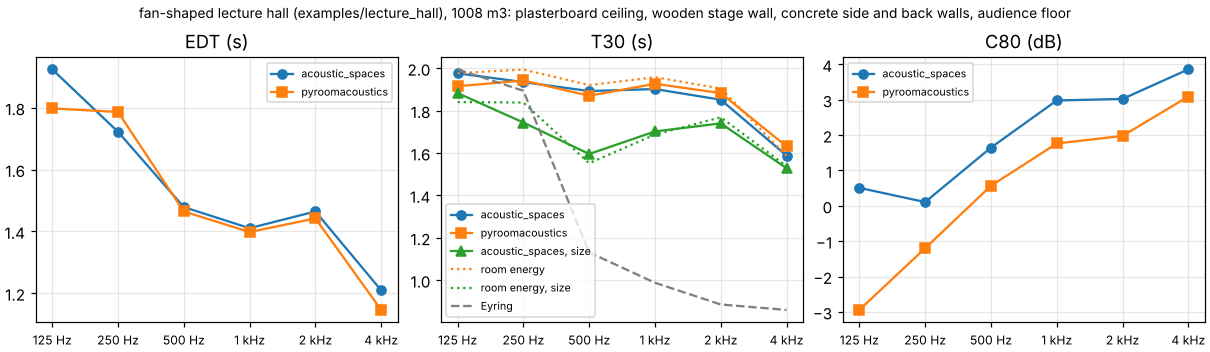
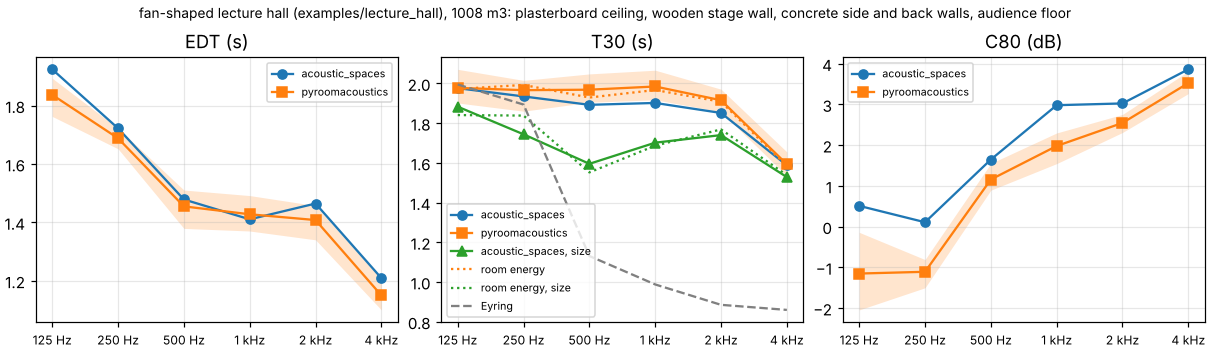
Validation: average five pyroomacoustics runs, alcove timing
pyroomacoustics draws its rays afresh on every run, and its numbers moved
by up to 11 % in T30 and 2.9 dB in C80 between runs, more than the
differences the report drew conclusions from. The cross-check now runs it
five times per room (--pra-runs), averages them and shows the spread in
the tables and figures. The lecture hall's C80 difference, 0.8 to 3.5 dB
in one run, is 0.3 to 1.7 dB on average. This package's own numbers are
unchanged.

The alcove hall's early stage takes 90, 120 and 170 ms without,
with first-order and with second-order diffraction (86 paths).

Assisted-by: Claude Code

diff --git a/validation/pyroomacoustics_crosscheck.py b/validation/pyroomacoustics_crosscheck.py
@@ -2,6 +2,7 @@
 
     python validation/pyroomacoustics_crosscheck.py [--rays 100000] [--json results.json]
                                                     [--plots DIR] [--cases specular,diffuse]
+                                                    [--pra-runs 5]
 
 Needs ``pip install pyroomacoustics`` (and matplotlib for ``--plots``). Both programs
 get the same geometry, absorption and scattering per octave band, the same air
@@ -10,7 +11,10 @@ tracing takes over. Both scatter vector-based; pyroomacoustics has no scattering
 size of a surface, so this package leaves it out for the comparison and adds a run with
 its default, which has it. The impulse responses of both are analysed alike, with
 :func:`acoustic_spaces.parameters.from_impulse_response`, and EDT, T30 and C80 are
-averaged over the listeners of each room. The script prints a Markdown table per room.
+averaged over the listeners of each room. pyroomacoustics draws its rays afresh on every
+run, so it simulates each room several times (``--pra-runs``) and its parameters are
+averaged over the runs too, with the spread between them in the tables. The script
+prints a Markdown table per room.
 """
 
 from __future__ import annotations
@@ -383,13 +387,21 @@ def barron_c80(case: Case, volume: float, t: np.ndarray) -> np.ndarray:
     return np.mean(10.0 * np.log10(early / late), axis=0)
 
 
-def compare(case: Case, rays: int, seed: int) -> dict:
+def compare(case: Case, rays: int, seed: int, pra_runs: int = 5) -> dict:
     # pyroomacoustics has no scattering from the size of a surface: the comparison
     # leaves it out here too, and this package's default adds it.
     ours, room, ours_s = run_ours(case, rays, seed, from_size=False)
     default, default_room, _ = run_ours(case, rays, seed)
-    theirs, theirs_s = run_pyroomacoustics(case, rays, room.air_attenuation())
-    a, b, d = _mean_parameters(ours), _mean_parameters(theirs), _mean_parameters(default)
+    theirs, theirs_s, runs = [], 0.0, []
+    for _ in range(pra_runs):
+        irs, seconds = run_pyroomacoustics(case, rays, room.air_attenuation())
+        theirs += irs
+        theirs_s += seconds / pra_runs
+        runs.append(_mean_parameters(irs))
+    a, d = _mean_parameters(ours), _mean_parameters(default)
+    b = {p: np.mean([r[p] for r in runs], axis=0) for p in PARAMETERS}
+    lowest = {p: np.min([r[p] for r in runs], axis=0) for p in PARAMETERS}
+    highest = {p: np.max([r[p] for r in runs], axis=0) for p in PARAMETERS}
     duration = 1.5 * case.ir_length_s
     global_t30 = {
         "vector": _global_t30(room, "vector", _t30_windows(theirs), duration),
@@ -406,9 +418,12 @@ def compare(case: Case, rays: int, seed: int) -> dict:
                 "acoustic_spaces": [float(v) for v in a[p][COMPARED]],
                 "pyroomacoustics": [float(v) for v in b[p][COMPARED]],
                 "default": [float(v) for v in d[p][COMPARED]],
+                "pyroomacoustics_lowest": [float(v) for v in lowest[p][COMPARED]],
+                "pyroomacoustics_highest": [float(v) for v in highest[p][COMPARED]],
             }
             for p in PARAMETERS
         },
+        "pyroomacoustics_runs": pra_runs,
         "t30_room_energy": {m: [float(v) for v in t[COMPARED]] for m, t in global_t30.items()},
     }
     if case.diffuse:
@@ -437,6 +452,13 @@ def table(result: dict) -> str:
         label = f"{p.upper()} ({units[p]})"
         lines.append(f"| {label}, acoustic_spaces | " + " | ".join(map(fmt.format, ours)) + " |")
         lines.append(f"| {label}, pyroomacoustics | " + " | ".join(map(fmt.format, theirs)) + " |")
+        if "pyroomacoustics_lowest" in result[p]:
+            values = np.subtract(
+                result[p]["pyroomacoustics_highest"], result[p]["pyroomacoustics_lowest"]
+            )
+            spread = " | ".join(map(fmt.format, values))
+            runs = result["pyroomacoustics_runs"]
+            lines.append(f"| {label}, pyroomacoustics' spread over {runs} runs | {spread} |")
         if p == "c80":
             diff = [f"{round(d, 1) + 0.0:+.1f} dB" for d in theirs - ours]
         else:
@@ -472,6 +494,9 @@ def plot(result: dict, path: str) -> None:
     for ax, p in zip(axes, PARAMETERS, strict=True):
         ax.plot(x, result[p]["acoustic_spaces"], "o-", color="C0", label="acoustic_spaces")
         ax.plot(x, result[p]["pyroomacoustics"], "s-", color="C1", label="pyroomacoustics")
+        if "pyroomacoustics_lowest" in result[p]:
+            low, high = result[p]["pyroomacoustics_lowest"], result[p]["pyroomacoustics_highest"]
+            ax.fill_between(x, low, high, color="C1", alpha=0.2, linewidth=0)
         if p == "t30":
             energy = result["t30_room_energy"]
             ax.plot(x, result[p]["default"], "^-", color="C2", label="acoustic_spaces, size")
@@ -497,6 +522,9 @@ def main() -> None:
     parser.add_argument("--json", help="write every number to this file")
     parser.add_argument("--plots", help="draw a PNG per room into this folder")
     parser.add_argument("--tables", help="only print the tables of a file from --json")
+    parser.add_argument(
+        "--pra-runs", type=int, default=5, help="runs of pyroomacoustics to average per room"
+    )
     args = parser.parse_args()
 
     if args.tables:
@@ -512,7 +540,7 @@ def main() -> None:
         chosen = set(args.cases.split(","))
         for case in CASES:
             if case.name in chosen:
-                results.append(compare(case, args.rays, args.seed))
+                results.append(compare(case, args.rays, args.seed, args.pra_runs))
                 print(table(results[-1]) + "\n", flush=True)
     else:
         for result in results:

diff --git a/docs/validation.md b/docs/validation.md
@@ -177,6 +177,8 @@ rooms:
 Both programs got the same absorption and scattering per octave band, the same air
 absorption (ISO 9613-1 at 20 °C and 50 %, from this package), image sources up to the
 3rd order and 100,000 rays, with one omnidirectional source and four listeners per room.
+pyroomacoustics draws its rays afresh on every run, so each room ran five times in it:
+the tables give the mean of the five and the spread between the highest and the lowest.
 Both scatter vector-based. pyroomacoustics has no scattering from the size of a surface,
 so this package left it out for the comparison (`from_size: false`) and ran each room
 once more with its default, which adds it. Both sets of impulse responses were analysed
@@ -204,12 +206,13 @@ listeners' T30 ("room energy" rows below).
 
 ### Results
 
-The figures show EDT, T30 and C80 per band for both programs, this package's default with
+The figures show EDT, T30 and C80 per band for both programs, the spread of
+pyroomacoustics' runs shaded, this package's default with
 the scattering of the surfaces' size, the decay of the room's total energy under each
 model and, where a diffuse field makes them apply, Eyring's reverberation time and
 Barron's revised theory.
 
-**Specular box.** The programs agree: T30 within 3 %, EDT within 10 % and C80 within
+**Specular box.** The programs agree: T30 within 3 %, EDT within 5 % and C80 within
 1 dB from 250 Hz up. Rays that travel parallel to the floor never meet the absorbing
 ceiling, so the decay is many times longer than Eyring's estimate in both. Even a
 smooth wall is only 3 m high, though, and scatters what reaches it from far away or at a
@@ -218,24 +221,27 @@ grazing angle: with that, T30 comes out 2.7 to 4.7 s instead of 3 to 15 s.
 | | 125 Hz | 250 Hz | 500 Hz | 1 kHz | 2 kHz | 4 kHz |
 |---|---:|---:|---:|---:|---:|---:|
 | EDT (s), acoustic_spaces | 7.29 | 6.30 | 3.55 | 3.01 | 2.33 | 1.33 |
-| EDT (s), pyroomacoustics | 6.96 | 5.93 | 3.68 | 2.72 | 2.23 | 1.30 |
-| EDT difference | -5 % | -6 % | +4 % | -10 % | -4 % | -2 % |
+| EDT (s), pyroomacoustics | 6.89 | 6.02 | 3.52 | 2.90 | 2.23 | 1.26 |
+| EDT (s), pyroomacoustics' spread over 5 runs | 0.39 | 0.76 | 0.35 | 0.17 | 0.06 | 0.08 |
+| EDT difference | -5 % | -5 % | -1 % | -4 % | -5 % | -5 % |
 | T30 (s), acoustic_spaces | 15.08 | 14.00 | 8.32 | 6.32 | 4.98 | 3.05 |
-| T30 (s), pyroomacoustics | 14.99 | 13.64 | 8.38 | 6.22 | 5.01 | 3.14 |
-| T30 difference | -1 % | -3 % | +1 % | -2 % | +1 % | +3 % |
+| T30 (s), pyroomacoustics | 15.45 | 13.78 | 8.28 | 6.25 | 5.03 | 3.15 |
+| T30 (s), pyroomacoustics' spread over 5 runs | 0.29 | 0.28 | 0.14 | 0.15 | 0.04 | 0.04 |
+| T30 difference | +2 % | -2 % | +0 % | -1 % | +1 % | +3 % |
 | C80 (dB), acoustic_spaces | -2.7 | -1.4 | 0.1 | 1.7 | 3.1 | 5.0 |
-| C80 (dB), pyroomacoustics | -0.9 | -0.8 | 0.3 | 2.6 | 3.2 | 5.2 |
-| C80 difference | +1.8 dB | +0.6 dB | +0.3 dB | +0.8 dB | +0.1 dB | +0.2 dB |
+| C80 (dB), pyroomacoustics | -1.4 | -1.0 | 0.8 | 2.2 | 3.1 | 5.3 |
+| C80 (dB), pyroomacoustics' spread over 5 runs | 2.9 | 0.8 | 1.1 | 0.7 | 0.3 | 0.4 |
+| C80 difference | +1.2 dB | +0.4 dB | +0.7 dB | +0.5 dB | +0.0 dB | +0.2 dB |
 | T30 (s), acoustic_spaces with surface size (default) | 3.82 | 4.36 | 4.58 | 4.67 | 4.10 | 2.69 |
-| T30 (s) of the room's energy, vector-based scattering | 15.45 | 13.96 | 7.32 | 6.25 | 4.97 | 2.87 |
+| T30 (s) of the room's energy, vector-based scattering | 15.60 | 13.99 | 7.29 | 6.28 | 4.98 | 2.87 |
 | T30 (s) of the room's energy, with surface size | 4.14 | 5.28 | 4.76 | 5.15 | 4.29 | 2.64 |
 | Eyring (s) | 0.83 | 0.69 | 0.52 | 0.37 | 0.30 | 0.25 |
 
 ![Specular box](validation/crosscheck_specular.png)
 
 **Diffuse box.** T30 agrees within 5 %; both programs stay within 8 % of the room's
-energy decay and within 12 % of Eyring's estimate. From 1 kHz up, pyroomacoustics gives
-16 to 27 % longer EDT and 1.2 to 2.8 dB lower C80 than this package, as its
+energy decay and within 13 % of Eyring's estimate. From 1 kHz up, pyroomacoustics gives
+14 to 25 % longer EDT and 1.5 to 2.3 dB lower C80 than this package, as its
 double-counted scattered energy predicts. Barron's revised theory sides with this
 package: computed from the simulated energies, as `simulate` prints them, C80 is within
 0.7 dB of the theory in every band. From the impulse responses it is up to 1.9 dB lower
@@ -246,15 +252,18 @@ scatter no more for their size, so the default gives the same.
 | | 125 Hz | 250 Hz | 500 Hz | 1 kHz | 2 kHz | 4 kHz |
 |---|---:|---:|---:|---:|---:|---:|
 | EDT (s), acoustic_spaces | 0.91 | 0.70 | 0.60 | 0.38 | 0.31 | 0.26 |
-| EDT (s), pyroomacoustics | 0.90 | 0.63 | 0.58 | 0.44 | 0.36 | 0.33 |
-| EDT difference | -2 % | -10 % | -4 % | +18 % | +16 % | +27 % |
+| EDT (s), pyroomacoustics | 0.85 | 0.71 | 0.58 | 0.43 | 0.35 | 0.32 |
+| EDT (s), pyroomacoustics' spread over 5 runs | 0.17 | 0.05 | 0.04 | 0.02 | 0.03 | 0.02 |
+| EDT difference | -7 % | +2 % | -4 % | +14 % | +15 % | +25 % |
 | T30 (s), acoustic_spaces | 0.75 | 0.67 | 0.53 | 0.40 | 0.30 | 0.26 |
-| T30 (s), pyroomacoustics | 0.73 | 0.64 | 0.54 | 0.40 | 0.31 | 0.27 |
-| T30 difference | -2 % | -5 % | +2 % | +1 % | +4 % | +4 % |
+| T30 (s), pyroomacoustics | 0.72 | 0.64 | 0.54 | 0.40 | 0.31 | 0.26 |
+| T30 (s), pyroomacoustics' spread over 5 runs | 0.08 | 0.03 | 0.04 | 0.02 | 0.02 | 0.01 |
+| T30 difference | -3 % | -5 % | +1 % | +1 % | +2 % | +0 % |
 | C80 (dB), acoustic_spaces | 4.9 | 5.6 | 7.2 | 12.8 | 15.6 | 19.0 |
-| C80 (dB), pyroomacoustics | 3.9 | 5.7 | 7.3 | 10.3 | 14.3 | 16.3 |
-| C80 difference | -0.9 dB | +0.0 dB | +0.1 dB | -2.5 dB | -1.2 dB | -2.8 dB |
-| C80 (dB), Barron's revised theory | 5.3 | 6.8 | 9.1 | 13.7 | 17.1 | 19.8 |
+| C80 (dB), pyroomacoustics | 3.6 | 5.2 | 7.3 | 10.8 | 14.1 | 16.7 |
+| C80 (dB), pyroomacoustics' spread over 5 runs | 1.9 | 1.0 | 1.0 | 0.5 | 0.9 | 0.2 |
+| C80 difference | -1.3 dB | -0.4 dB | +0.1 dB | -2.1 dB | -1.5 dB | -2.3 dB |
+| C80 (dB), Barron's revised theory | 5.3 | 6.8 | 9.1 | 13.6 | 17.0 | 19.8 |
 | T30 (s), acoustic_spaces with surface size (default) | 0.75 | 0.67 | 0.53 | 0.40 | 0.30 | 0.26 |
 | T30 (s) of the room's energy, vector-based scattering | 0.78 | 0.66 | 0.52 | 0.37 | 0.30 | 0.26 |
 | T30 (s) of the room's energy, with surface size | 0.78 | 0.66 | 0.52 | 0.37 | 0.30 | 0.26 |
@@ -262,47 +271,53 @@ scatter no more for their size, so the default gives the same.
 
 ![Diffuse box](validation/crosscheck_diffuse.png)
 
-**Example box.** With smooth walls (scattering 0.05), T30 agrees within 4 %, EDT within
-13 % and C80 within 1.4 dB. Up to version 2 this package scattered a ray with the
+**Example box.** With smooth walls (scattering 0.05), T30 agrees within 2 %, EDT within
+7 % and C80 within 1.2 dB. Up to version 2 this package scattered a ray with the
 coefficient as probability, and pyroomacoustics' T30 came out 19 to 42 % shorter. The
 walls' size halves T30 at 125 and 250 Hz (0.86 s against 1.82 s) and shortens it by
-8 to 22 % from 500 Hz up; each run matches the room-energy decay of its model within 9 %.
+8 to 22 % from 500 Hz up; each run matches the room-energy decay of its model within 11 %.
 
 | | 125 Hz | 250 Hz | 500 Hz | 1 kHz | 2 kHz | 4 kHz |
 |---|---:|---:|---:|---:|---:|---:|
 | EDT (s), acoustic_spaces | 1.27 | 1.27 | 1.19 | 1.10 | 1.08 | 0.92 |
-| EDT (s), pyroomacoustics | 1.10 | 1.28 | 1.29 | 1.24 | 1.14 | 0.92 |
-| EDT difference | -13 % | +1 % | +8 % | +13 % | +6 % | +0 % |
+| EDT (s), pyroomacoustics | 1.23 | 1.37 | 1.16 | 1.15 | 1.13 | 0.92 |
+| EDT (s), pyroomacoustics' spread over 5 runs | 0.31 | 0.08 | 0.18 | 0.14 | 0.11 | 0.07 |
+| EDT difference | -3 % | +7 % | -2 % | +5 % | +4 % | +0 % |
 | T30 (s), acoustic_spaces | 1.82 | 1.76 | 1.57 | 1.52 | 1.44 | 1.23 |
-| T30 (s), pyroomacoustics | 1.77 | 1.68 | 1.53 | 1.51 | 1.44 | 1.27 |
-| T30 difference | -3 % | -4 % | -3 % | -1 % | +0 % | +3 % |
+| T30 (s), pyroomacoustics | 1.80 | 1.73 | 1.60 | 1.52 | 1.44 | 1.24 |
+| T30 (s), pyroomacoustics' spread over 5 runs | 0.18 | 0.15 | 0.11 | 0.07 | 0.07 | 0.08 |
+| T30 difference | -1 % | -2 % | +2 % | +0 % | +0 % | +1 % |
 | C80 (dB), acoustic_spaces | 2.8 | 2.7 | 3.3 | 5.1 | 5.1 | 6.3 |
-| C80 (dB), pyroomacoustics | 4.2 | 3.9 | 3.7 | 4.5 | 5.4 | 6.3 |
-| C80 difference | +1.4 dB | +1.2 dB | +0.4 dB | -0.5 dB | +0.3 dB | +0.0 dB |
+| C80 (dB), pyroomacoustics | 3.0 | 3.4 | 4.5 | 4.9 | 5.0 | 6.2 |
+| C80 (dB), pyroomacoustics' spread over 5 runs | 1.0 | 0.9 | 0.9 | 0.6 | 0.5 | 0.4 |
+| C80 difference | +0.2 dB | +0.7 dB | +1.2 dB | -0.1 dB | -0.1 dB | -0.1 dB |
 | T30 (s), acoustic_spaces with surface size (default) | 0.86 | 0.97 | 1.22 | 1.27 | 1.25 | 1.13 |
-| T30 (s) of the room's energy, vector-based scattering | 1.68 | 1.67 | 1.54 | 1.49 | 1.43 | 1.22 |
+| T30 (s) of the room's energy, vector-based scattering | 1.64 | 1.63 | 1.53 | 1.49 | 1.42 | 1.22 |
 | T30 (s) of the room's energy, with surface size | 0.90 | 0.93 | 1.29 | 1.28 | 1.36 | 1.18 |
 | Eyring (s) | 0.83 | 0.69 | 0.52 | 0.37 | 0.30 | 0.25 |
 
 ![Example box](validation/crosscheck_example.png)
 
-**Lecture hall.** T30 agrees within 3 % and EDT within 7 %; pyroomacoustics' C80 is 0.8 to
-3.5 dB lower, the double-counted scattered energy again. The surfaces' size shortens T30
+**Lecture hall.** T30 agrees within 4 % and EDT within 5 %; pyroomacoustics' C80 is 0.3 to
+1.7 dB lower, the double-counted scattered energy again. The surfaces' size shortens T30
 by 4 to 15 %, in line with the room-energy decay of that model within 6 %.
 
 | | 125 Hz | 250 Hz | 500 Hz | 1 kHz | 2 kHz | 4 kHz |
 |---|---:|---:|---:|---:|---:|---:|
 | EDT (s), acoustic_spaces | 1.92 | 1.72 | 1.48 | 1.41 | 1.46 | 1.21 |
-| EDT (s), pyroomacoustics | 1.80 | 1.79 | 1.46 | 1.40 | 1.44 | 1.15 |
-| EDT difference | -7 % | +4 % | -1 % | -1 % | -2 % | -5 % |
+| EDT (s), pyroomacoustics | 1.84 | 1.69 | 1.45 | 1.43 | 1.41 | 1.15 |
+| EDT (s), pyroomacoustics' spread over 5 runs | 0.13 | 0.07 | 0.13 | 0.12 | 0.12 | 0.11 |
+| EDT difference | -5 % | -2 % | -2 % | +1 % | -4 % | -5 % |
 | T30 (s), acoustic_spaces | 1.98 | 1.93 | 1.89 | 1.90 | 1.85 | 1.59 |
-| T30 (s), pyroomacoustics | 1.91 | 1.94 | 1.87 | 1.93 | 1.88 | 1.63 |
-| T30 difference | -3 % | +0 % | -1 % | +1 % | +2 % | +3 % |
+| T30 (s), pyroomacoustics | 1.98 | 1.97 | 1.97 | 1.98 | 1.92 | 1.59 |
+| T30 (s), pyroomacoustics' spread over 5 runs | 0.17 | 0.16 | 0.14 | 0.15 | 0.11 | 0.12 |
+| T30 difference | +0 % | +2 % | +4 % | +4 % | +3 % | +0 % |
 | C80 (dB), acoustic_spaces | 0.5 | 0.1 | 1.6 | 3.0 | 3.0 | 3.9 |
-| C80 (dB), pyroomacoustics | -2.9 | -1.2 | 0.6 | 1.8 | 2.0 | 3.1 |
-| C80 difference | -3.5 dB | -1.3 dB | -1.1 dB | -1.2 dB | -1.0 dB | -0.8 dB |
+| C80 (dB), pyroomacoustics | -1.2 | -1.1 | 1.2 | 2.0 | 2.5 | 3.5 |
+| C80 (dB), pyroomacoustics' spread over 5 runs | 1.9 | 0.7 | 0.7 | 0.8 | 0.4 | 0.5 |
+| C80 difference | -1.7 dB | -1.2 dB | -0.5 dB | -1.0 dB | -0.5 dB | -0.3 dB |
 | T30 (s), acoustic_spaces with surface size (default) | 1.88 | 1.74 | 1.60 | 1.70 | 1.74 | 1.53 |
-| T30 (s) of the room's energy, vector-based scattering | 1.98 | 1.99 | 1.92 | 1.96 | 1.90 | 1.59 |
+| T30 (s) of the room's energy, vector-based scattering | 1.97 | 1.99 | 1.93 | 1.97 | 1.91 | 1.58 |
 | T30 (s) of the room's energy, with surface size | 1.84 | 1.84 | 1.55 | 1.69 | 1.77 | 1.54 |
 | Eyring (s) | 1.99 | 1.89 | 1.13 | 0.99 | 0.88 | 0.86 |
 
@@ -311,10 +326,11 @@ by 4 to 15 %, in line with the room-energy decay of that model within 6 %.
 ### Conclusions
 
 - With the same scattering model, the programs agree within 5 % on T30 in all four
-  rooms, from purely specular to fully diffusing surfaces, and within 13 % on EDT where
+  rooms, from purely specular to fully diffusing surfaces, and within 7 % on EDT where
   pyroomacoustics' double counting does not lengthen it. That is close to the 5 % and
-  1 dB the plan aimed for; T30 from 100,000 rays also varies by a few percent from one
-  random seed to the next.
+  1 dB the plan aimed for. With 100,000 rays, pyroomacoustics' own runs differ by up to
+  11 % in T30, 25 % in EDT and 2.9 dB in C80, most at 125 Hz, which is why the tables
+  average five of them; this package's numbers move by a few percent with the seed.
 - Where the theory is clear (the diffuse box), this package agrees with Eyring and with
   Barron's revised theory; pyroomacoustics counts the scattered energy twice.
 - The scattering of a surface's size, which pyroomacoustics lacks, shortens the decay of
@@ -592,8 +608,8 @@ With `first_order` the level drops from the path over one corner to nothing.
 
 The early stage of a hall 30 x 20 x 10 m with four alcoves along each long wall
 (16 vertical edges), with the source and the listener in alcoves out of each other's
-sight, takes 100 ms per source and listener without diffraction, 120 ms with
-`first_order` and 200 ms with `second_order` (93 paths instead of 71).
+sight, takes 90 ms per source and listener without diffraction, 120 ms with
+`first_order` and 170 ms with `second_order` (86 paths instead of 71).
 
 ## Wave-based solver
 
@@ -838,9 +854,10 @@ python validation/bras_validation.py --bands third_octave --json bras_third.json
 python validation/bras_validation.py --materials initial --calibrate LS1 --plots docs/validation
 ```
 
-The cross-check takes about 25 minutes on 4 cores, the benchmark about 2 minutes, the
+The cross-check takes about 20 minutes on 4 cores, the benchmark about 2 minutes, the
 wave solver's checks about 3.5 minutes (both stencils) and each BRAS run about 30 minutes (85 in
-third-octave bands, or half that per room with `--scenes CR2`, 46 calibrated). The cross-check's numbers come from the development version of
-3.0.0 with seed 1. Those of pyroomacoustics, which draws its rays afresh on every run, have moved by up to 6 % in
-T30, 16 % in EDT and 2 dB in C80 from one run to the next, and the differences in the
-tables with them. Other seeds move this package's numbers by a few percent.
+third-octave bands, or half that per room with `--scenes CR2`, 46 calibrated). The cross-check's numbers come from 3.0.0 with seed 1.
+pyroomacoustics draws its rays afresh on every run, so the script averages five runs of it
+(`--pra-runs`); the means still move by a few percent from one call to the next, and the
+differences in the tables with them. Other seeds move this package's numbers by a few
+percent.

diff --git a/CHANGELOG.md b/CHANGELOG.md
@@ -36,7 +36,12 @@
 - Two rooms of the BRAS benchmark, a seminar room and a chamber music hall, as scenes in
   `validation/bras`, with their surface data and the parameters of their measured
   responses (CC BY-SA 4.0, like BRAS). `validation/bras_validation.py` compares
-  simulations with them; the validation report has the results.
+  simulations with them; the validation report has the results. It prints how far each
+  room has got on standard error.
+- The cross-check against pyroomacoustics averages five runs of pyroomacoustics per room
+  (`--pra-runs`), which draws its rays afresh on every run, and shows the spread between
+  them. One run had made its C80 in the lecture hall look up to 3.5 dB lower than this
+  package's; the mean of five is 0.3 to 1.7 dB lower.
 
 **Scattering** (changes results: see below for version 2's)
 

diff --git a/docs/simulation.md b/docs/simulation.md
@@ -232,8 +232,8 @@ scattered rays already find their way round corners.
 response's `early.diffracted` marks them, and `simulate` reports how many there are. The
 cost grows with the number of edges: in a hall with about 100 edges, `first_order` adds
 about 17 ms per source and listener. `second_order` costs more, as it looks at pairs of
-edges: in a hall with 16 edges, the early stage takes 200 ms per source and listener
-with it, 120 ms with `first_order` and 100 ms without diffraction.
+edges: in a hall with 16 edges, the early stage takes 170 ms per source and listener
+with it, 120 ms with `first_order` and 90 ms without diffraction.
 
 ## Low frequencies: early reflections in pressure
 
